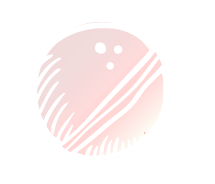
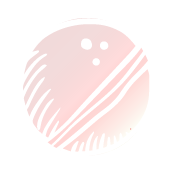
fixed planet sprites and chooses them randomly when created

diff --git a/src/Board.java b/src/Board.java
@@ -1,6 +1,7 @@
 import java.awt.*;
 import java.awt.event.*;
 import java.util.ArrayList;
+import java.util.Random;
 import javax.swing.JPanel;
 import javax.swing.Timer;
 
@@ -185,7 +186,10 @@ public class Board extends JPanel implements ActionListener, KeyListener, MouseL
     }
 
     private void spawnObstacles() {
-        Obstacle obstacle = new Obstacle("res/Planet.png", getScreenOffset() + width +
+        String[] sprites = {"res/Planet.png", "res/Earth.png"};
+        Random r=new Random();
+
+        Obstacle obstacle = new Obstacle(sprites[r.nextInt(sprites.length)], getScreenOffset() + width +
                 (int)(Math.random() * 500), (int)(Math.random() * (height - 200)));
 
 
